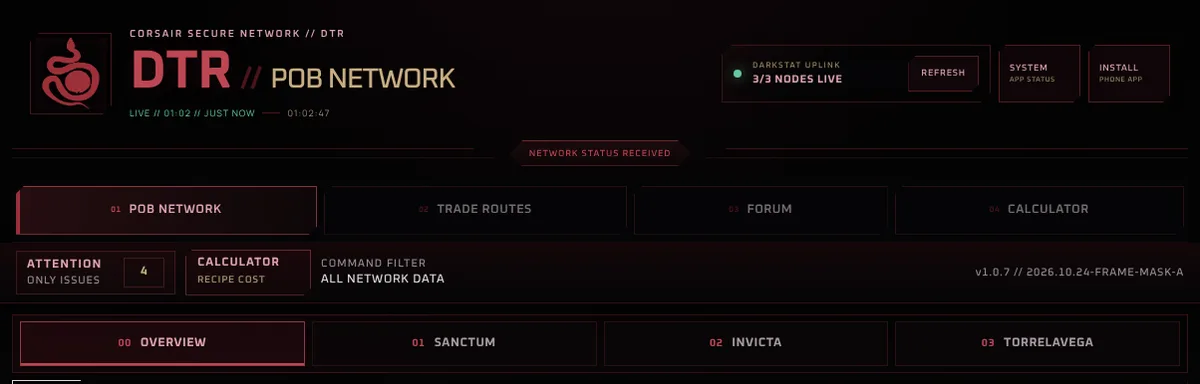
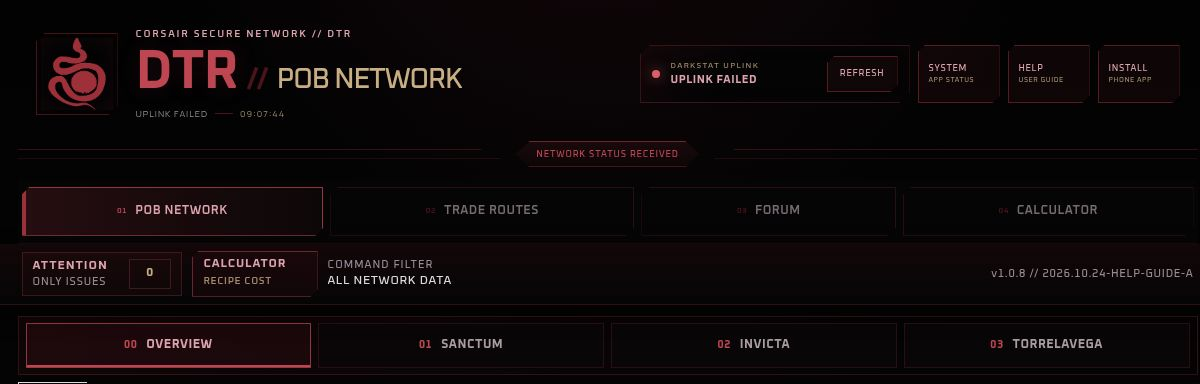
Refresh Help Guide header screenshot and document HELP navigation

diff --git a/help/guide.html b/help/guide.html
@@ -167,11 +167,11 @@ body{margin:0;background:#050506}
 <!-- ============================================================ -->
 <section class="dh-sec" id="layout">
   <div class="dh-sec-head"><span class="dh-kicker">01</span><h2>Screen layout &amp; navigation</h2></div>
-  <figure class="dh-shot"><img src="img/header-navigation.webp" alt="DTR header with uplink, System and Install buttons, the four main tabs, the Attention/Calculator bar and the POB sub-tabs" loading="lazy"><figcaption>Header, main tabs, command bar and POB sub-tabs.</figcaption></figure>
+  <figure class="dh-shot"><img src="img/header-navigation.webp" alt="DTR header with Darkstat uplink, System, Help and Install buttons, the four main tabs, the Attention/Calculator bar and the POB sub-tabs" loading="lazy"><figcaption>Current header with SYSTEM, HELP and INSTALL, main tabs, command bar and POB sub-tabs. The uplink status reflects the connection when this screenshot was taken.</figcaption></figure>
   <p>From top to bottom, every page has the same frame:</p>
   <table>
     <tr><th>Area</th><th>What it does</th></tr>
-    <tr><td>Header</td><td>DTR logo, data freshness (e.g. <i>LIVE // 00:59 // JUST NOW</i>) and a live clock. On the right: the Darkstat uplink, <span class="ui">SYSTEM</span> and <span class="ui">INSTALL</span>.</td></tr>
+    <tr><td>Header</td><td>DTR logo, data freshness (e.g. <i>LIVE // 00:59 // JUST NOW</i>) and a live clock. On the right: the Darkstat uplink, <span class="ui">SYSTEM</span>, <span class="ui">HELP</span> and <span class="ui">INSTALL</span>. <span class="ui">HELP · USER GUIDE</span> opens this guide in a new tab.</td></tr>
     <tr><td>Main tabs</td><td><span class="ui">01 POB NETWORK</span> · <span class="ui">02 TRADE ROUTES</span> · <span class="ui">03 FORUM</span> · <span class="ui">04 CALCULATOR</span>.</td></tr>
     <tr><td>Command bar</td><td><span class="ui">ATTENTION</span> filter, a <span class="ui">CALCULATOR</span> shortcut, the current filter state and the app version.</td></tr>
     <tr><td>POB sub-tabs</td><td><span class="ui">00 OVERVIEW</span> · <span class="ui">01 SANCTUM</span> · <span class="ui">02 INVICTA</span> · <span class="ui">03 TORRELAVEGA</span>. These belong to the POB Network section.</td></tr>

diff --git a/sw.js b/sw.js
@@ -1,7 +1,7 @@
 /* DTR POB Network · RHW-style offline app shell.
    App assets are available offline. Darkstat telemetry remains network-only. */
 const CACHE_PREFIX='dtr-pob-network-pwa-';
-const CACHE_NAME=`${CACHE_PREFIX}2026-10-24-v1.0.8-help-guide-1`;
+const CACHE_NAME=`${CACHE_PREFIX}2026-10-24-v1.0.8-help-guide-2`;
 const APP_SHELL=[
   './','./index.html','./manifest.webmanifest','./styles.css','./enhancements.css','./dtr-quality.css','./dtr-uplink.css','./dtr-responsive.css','./dtr-calculator.css','./dtr-production.css','./dtr-shipyard.css','./dtr-calculator-mobile.css','./dtr-forum.css','./dtr-avatar.css','./dtr-trade-routes.css','./dtr-ships.css',
   './dtr-pwa.js','./recipe-catalog.js','./app.js','./dtr-procurement-prices.js','./dtr-calculator.js','./dtr-production.js','./dtr-shipyard.js','./dtr-forum.js','./dtr-avatar.js','./dtr-quality.js','./dtr-uplink.js',

diff --git a/README.md b/README.md
@@ -91,4 +91,4 @@ GitHub Actions checks JavaScript and ES module syntax and runs static, calculato
 
 ## DTR Help Guide (v1.0.8)
 
-Slimy's DTR Help Guide is available directly from the header HELP / USER GUIDE button, next to SYSTEM and INSTALL. It opens `help/guide.html` in a separate browser tab/window and supports direct section links (`#trade-routes`, `#calculator`, `#forum`, `#avatar`, etc.). The guide provides searchable contents, responsive navigation, and 29 screenshots. Guide and screenshot files are included in the PWA's offline application shell and refresh with UPDATE NOW. All 29 original WebP files are copied unchanged from Slimy's ZIP, with their original image quality preserved. The main dashboard features and theme are not modified.
+Slimy's DTR Help Guide is available directly from the header HELP / USER GUIDE button, next to SYSTEM and INSTALL. It opens `help/guide.html` in a separate browser tab/window and supports direct section links (`#trade-routes`, `#calculator`, `#forum`, `#avatar`, etc.). The guide provides searchable contents, responsive navigation, and 29 screenshots. Guide and screenshot files are included in the PWA's offline application shell and refresh with UPDATE NOW. The header/navigation screenshot has been refreshed from the current dashboard to include HELP, and its caption, alternative text and header description match the current controls. The remaining 28 original WebP files are unchanged from Slimy's ZIP. The main dashboard features and theme are not modified.
